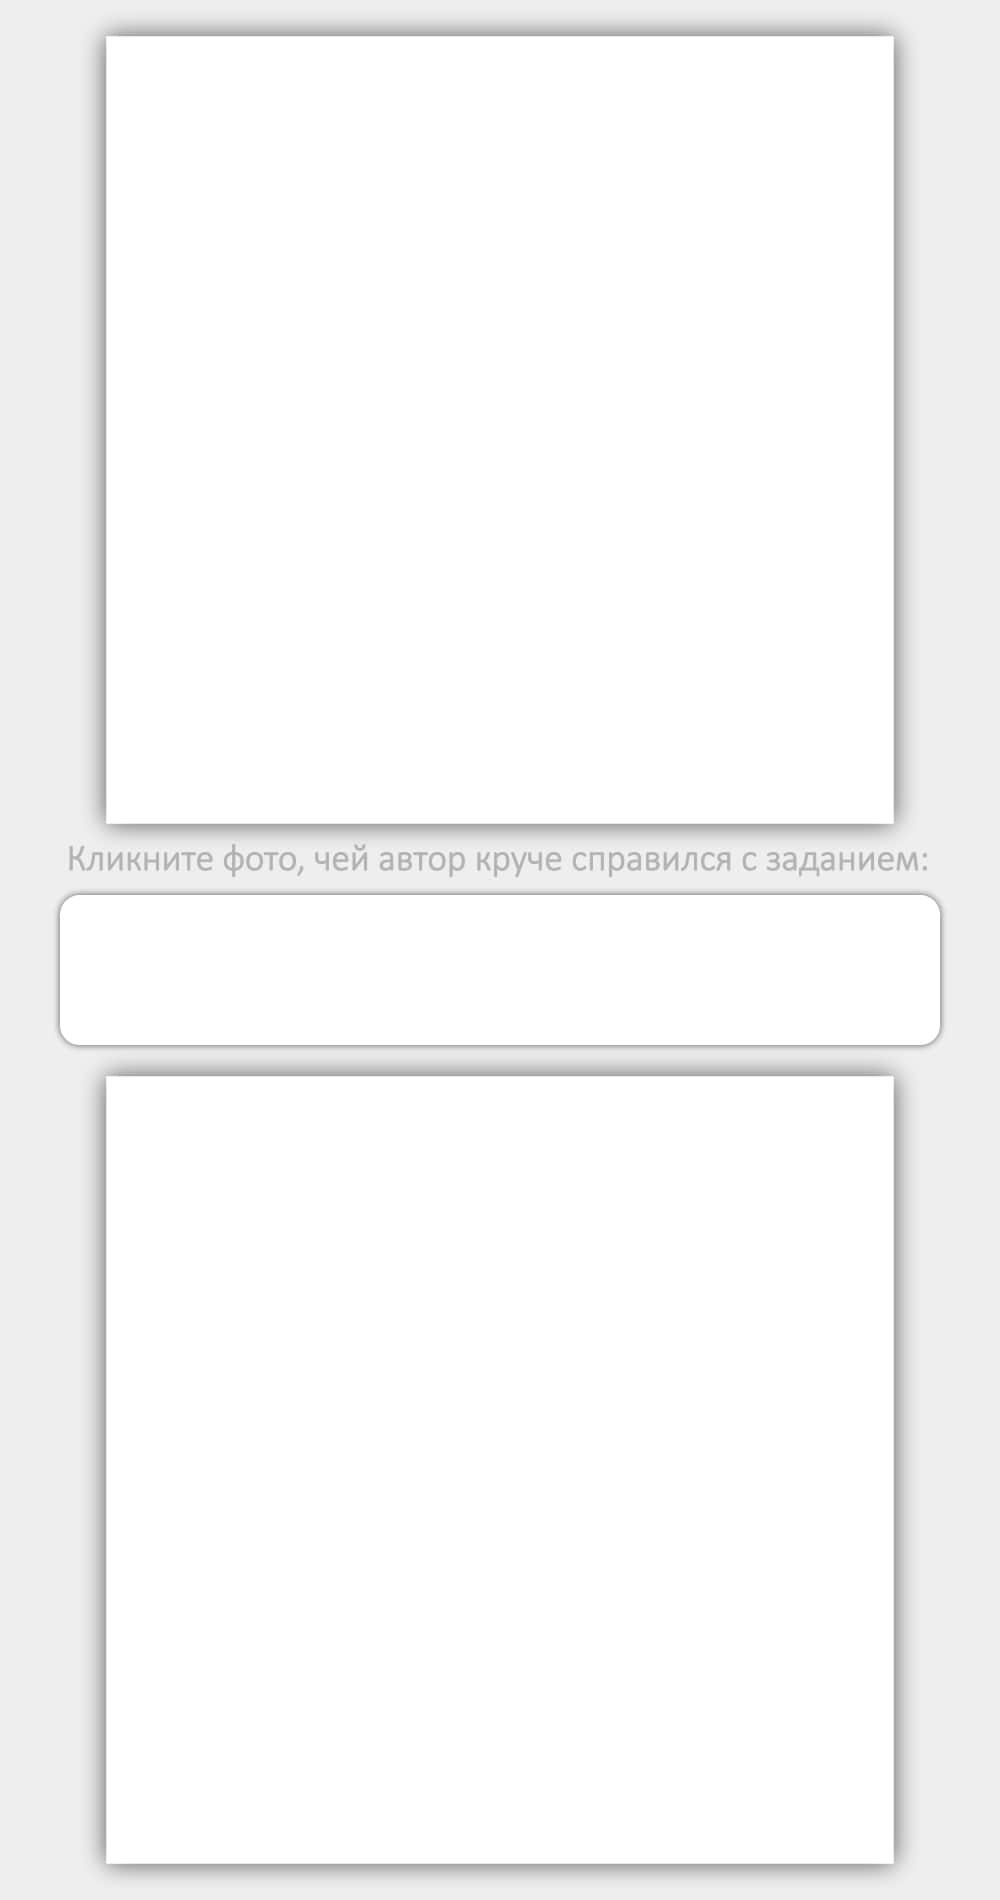
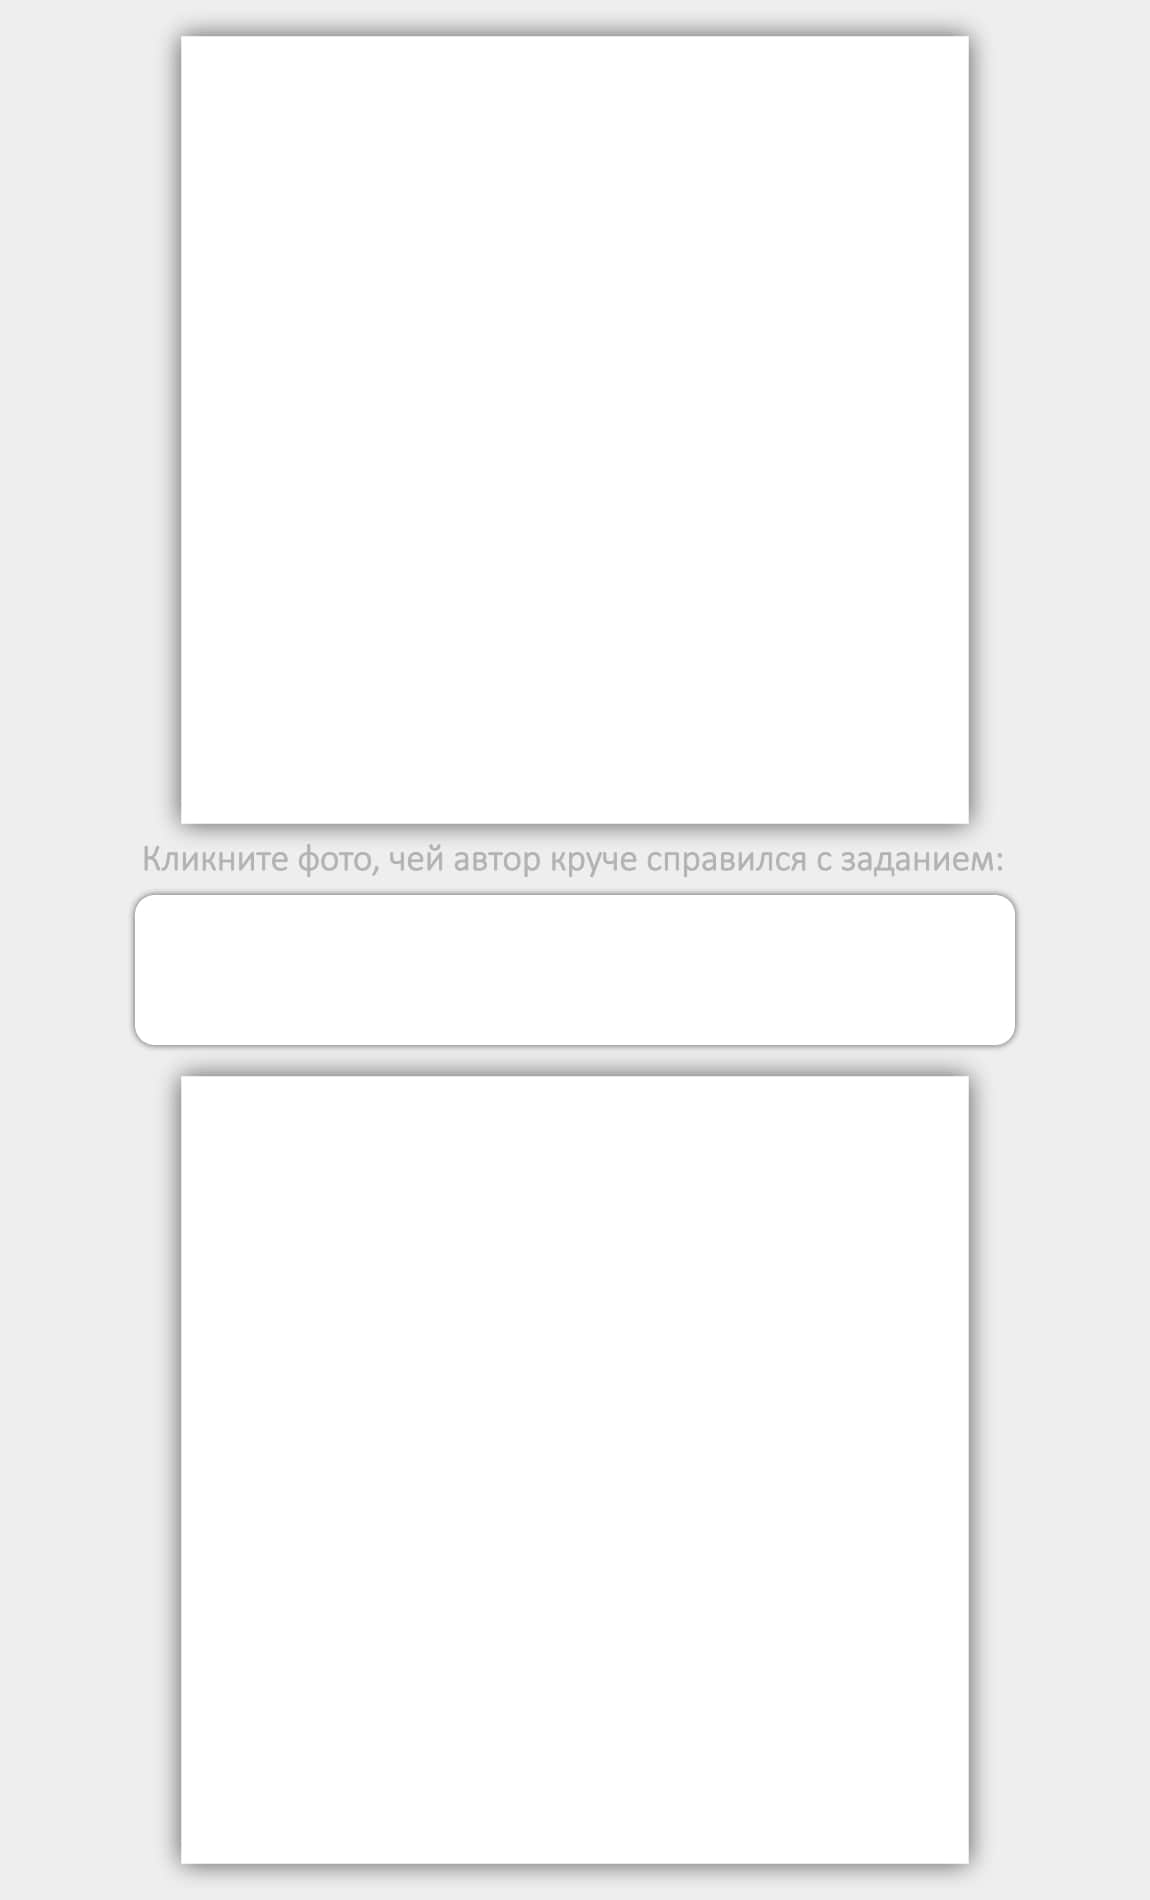
change stories

diff --git a/pd-front/src/common/storyCreator.js b/pd-front/src/common/storyCreator.js
@@ -7,6 +7,8 @@ const cWidth = 830;
 const cHeight = 142;
 const iSize = 850;
 const ivSize = 750;
+const allWidth = 1150;
+const allHeight = 1900;
 
 const createSoloCanvas = async (imageUrl, challengeElement) => {
     const canvas = document.getElementById('canvas');
@@ -14,7 +16,7 @@ const createSoloCanvas = async (imageUrl, challengeElement) => {
     ctx.clearRect(0, 0, canvas.width, canvas.height);
 
     await drawImage(soloBg, 0, 0);
-    await drawImage(imageUrl, (1000 - iSize) / 2, 870 - iSize / 2, iSize, iSize);
+    await drawImage(imageUrl, (allWidth - iSize) / 2, 870 - iSize / 2, iSize, iSize);
 
     const challenge = await html2canvas(
         challengeElement,
@@ -25,7 +27,7 @@ const createSoloCanvas = async (imageUrl, challengeElement) => {
         },
     );
 
-    ctx.drawImage(challenge, (1000 - cWidth) / 2, 266 - cHeight / 2);
+    ctx.drawImage(challenge, (allWidth - cWidth) / 2, 266 - cHeight / 2);
     return canvas.toDataURL('image/jpeg');
 };
 
@@ -45,7 +47,7 @@ export const createSoloStory = async (imageUrl, challengeElement, duelId) => {
                         rotation: 0,
                         relation_width: 0.68,
                         translation_x: 0,
-                        translation_y: 0.2,
+                        translation_y: 0.5,
                         gravity: 'center',
                     },
                     clickable_zones: [
@@ -55,11 +57,11 @@ export const createSoloStory = async (imageUrl, challengeElement, duelId) => {
                                 link: `https://vk.com/app${getAppId()}#${duelId}`,
                             },
                             // eslint-disable-next-line max-len
-                            clickable_area: [{ x: 13, y: 134 }, { x: 664, y: 134 }, { x: 664, y: 260 }, { x: 13, y: 260 }],
+                            clickable_area: [{ x: 0, y: 100 }, { x: 679, y: 100 }, { x: 679, y: 269 }, { x: 0, y: 269 }],
                         },
                     ],
-                    original_width: 1000,
-                    original_height: 1900,
+                    original_width: allWidth,
+                    original_height: allHeight,
                     can_delete: true,
                 },
             },
@@ -73,8 +75,8 @@ const createVoteCanvas = async (firstImgUrl, secondImgUrl, challengeElement) => 
     ctx.clearRect(0, 0, canvas.width, canvas.height);
 
     await drawImage(voteBg, 0, 0);
-    await drawImage(firstImgUrl, (1000 - ivSize) / 2, 430 - ivSize / 2, ivSize, ivSize);
-    await drawImage(secondImgUrl, (1000 - ivSize) / 2, 1470 - ivSize / 2, ivSize, ivSize);
+    await drawImage(firstImgUrl, (allWidth - ivSize) / 2, 430 - ivSize / 2, ivSize, ivSize);
+    await drawImage(secondImgUrl, (allWidth - ivSize) / 2, 1470 - ivSize / 2, ivSize, ivSize);
 
     const challenge = await html2canvas(
         challengeElement,
@@ -85,7 +87,7 @@ const createVoteCanvas = async (firstImgUrl, secondImgUrl, challengeElement) => 
         },
     );
 
-    ctx.drawImage(challenge, (1000 - cWidth) / 2, 970 - cHeight / 2);
+    ctx.drawImage(challenge, (allWidth - cWidth) / 2, 970 - cHeight / 2);
     return canvas.toDataURL('image/jpeg');
 };
 
@@ -101,7 +103,7 @@ export const createVoteStory = async (firstImgUrl, secondImgUrl, challengeElemen
                 sticker_type: 'renderable',
                 sticker: {
                     content_type: 'image',
[2 lines of base64/hex data omitted]
                     transform: {
                         rotation: 0,
                         relation_width: 1,
@@ -116,7 +118,7 @@ export const createVoteStory = async (firstImgUrl, secondImgUrl, challengeElemen
                                 link: `https://vk.com/app${appId}#${duelId}_vote_c`,
                             },
                             // eslint-disable-next-line max-len
-                            clickable_area: [{ x: 0, y: 0 }, { x: 1000, y: 0 }, { x: 1000, y: 950 }, { x: 0, y: 950 }],
+                            clickable_area: [{ x: 0, y: 0 }, { x: allWidth, y: 0 }, { x: allWidth, y: allHeight / 2 }, { x: 0, y: allHeight / 2 }],
                         },
                         {
                             action_type: 'link',
@@ -124,11 +126,11 @@ export const createVoteStory = async (firstImgUrl, secondImgUrl, challengeElemen
                                 link: `https://vk.com/app${appId}#${duelId}_vote_o`,
                             },
                             // eslint-disable-next-line max-len
-                            clickable_area: [{ x: 0, y: 950 }, { x: 1000, y: 950 }, { x: 1000, y: 1900 }, { x: 0, y: 1900 }],
+                            clickable_area: [{ x: 0, y: allHeight / 2 }, { x: allWidth, y: allHeight / 2 }, { x: allWidth, y: allHeight }, { x: 0, y: allHeight }],
                         },
                     ],
-                    original_width: 1000,
-                    original_height: 1900,
+                    original_width: allWidth,
+                    original_height: allHeight,
                     can_delete: false,
                 },
             },

diff --git a/pd-front/src/store/index.js b/pd-front/src/store/index.js
@@ -14,7 +14,7 @@ export default new Vuex.Store({
         user: {},
         currentTab: 1,
         isLoading: false,
-        notifications: false,
+        notifications: true,
         noInternet: false,
     },
     getters,

diff --git a/pd-front/src/components/User.vue b/pd-front/src/components/User.vue
@@ -41,6 +41,7 @@ export default {
 
     .avatar {
         width: 30px;
+        min-width: 30px;
         height: 30px;
         border-radius: 50%;
         overflow: hidden;

diff --git a/pd-front/src/components/Duel.vue b/pd-front/src/components/Duel.vue
@@ -357,6 +357,8 @@ export default {
 
     .user {
         margin-left: 5px;
+        max-width: 32vw;
+        overflow: hidden;
     }
 
     .middle-top {
